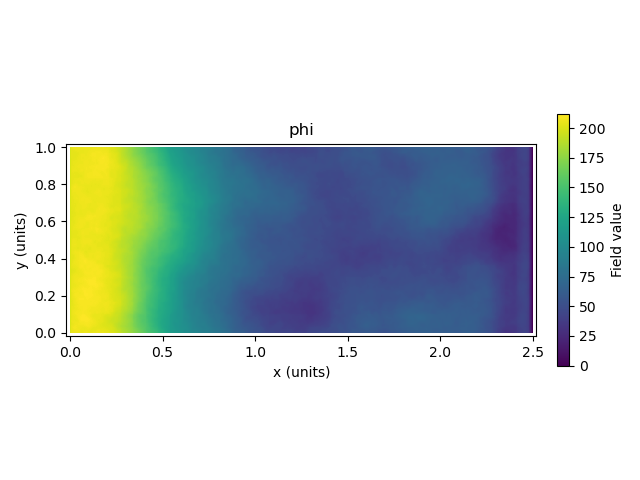
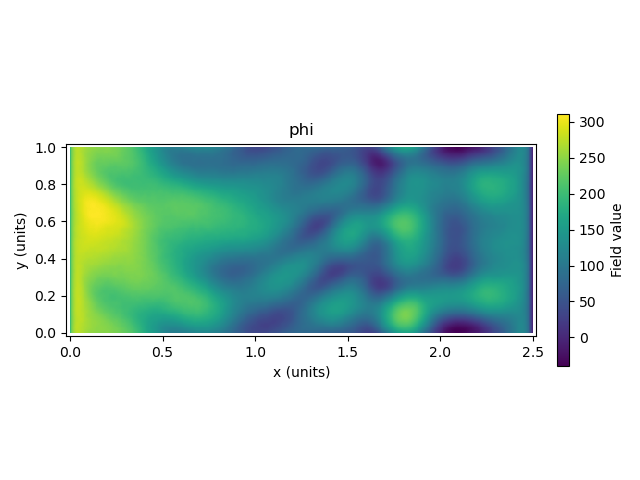
poisson のバグを修正

diff --git a/tools/field.py b/tools/field.py
@@ -96,7 +96,7 @@ def plotField1dx(field, title, figname, type_id, j):
 
 if __name__ == '__main__':
 
-    cycle = 200
+    cycle = 1000
     filename = f"bin/field_{cycle:08}.bin"
 
     with open(filename, 'rb') as f:
